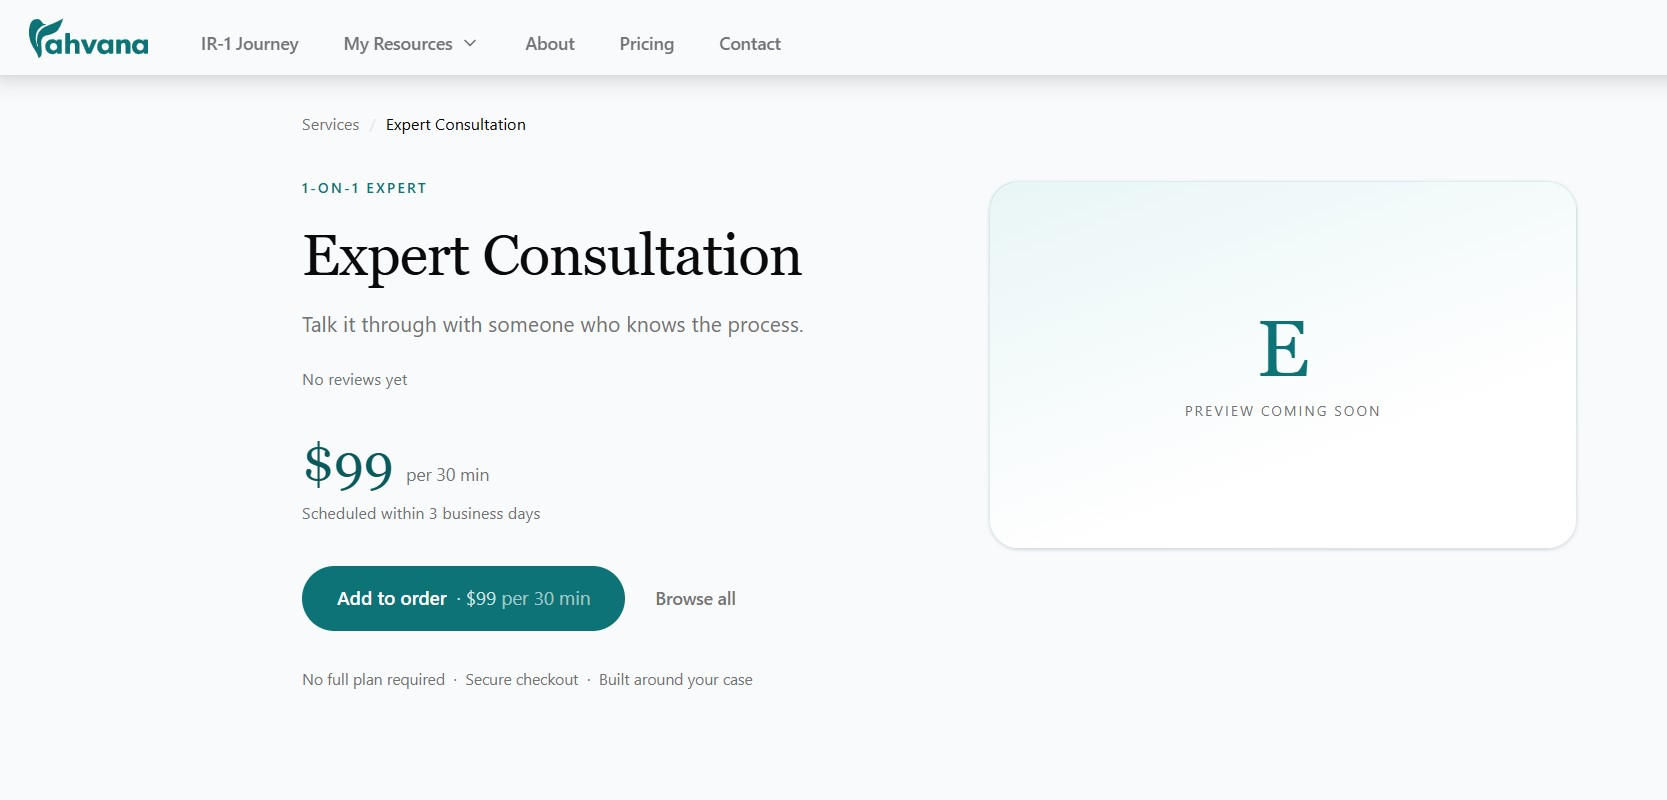
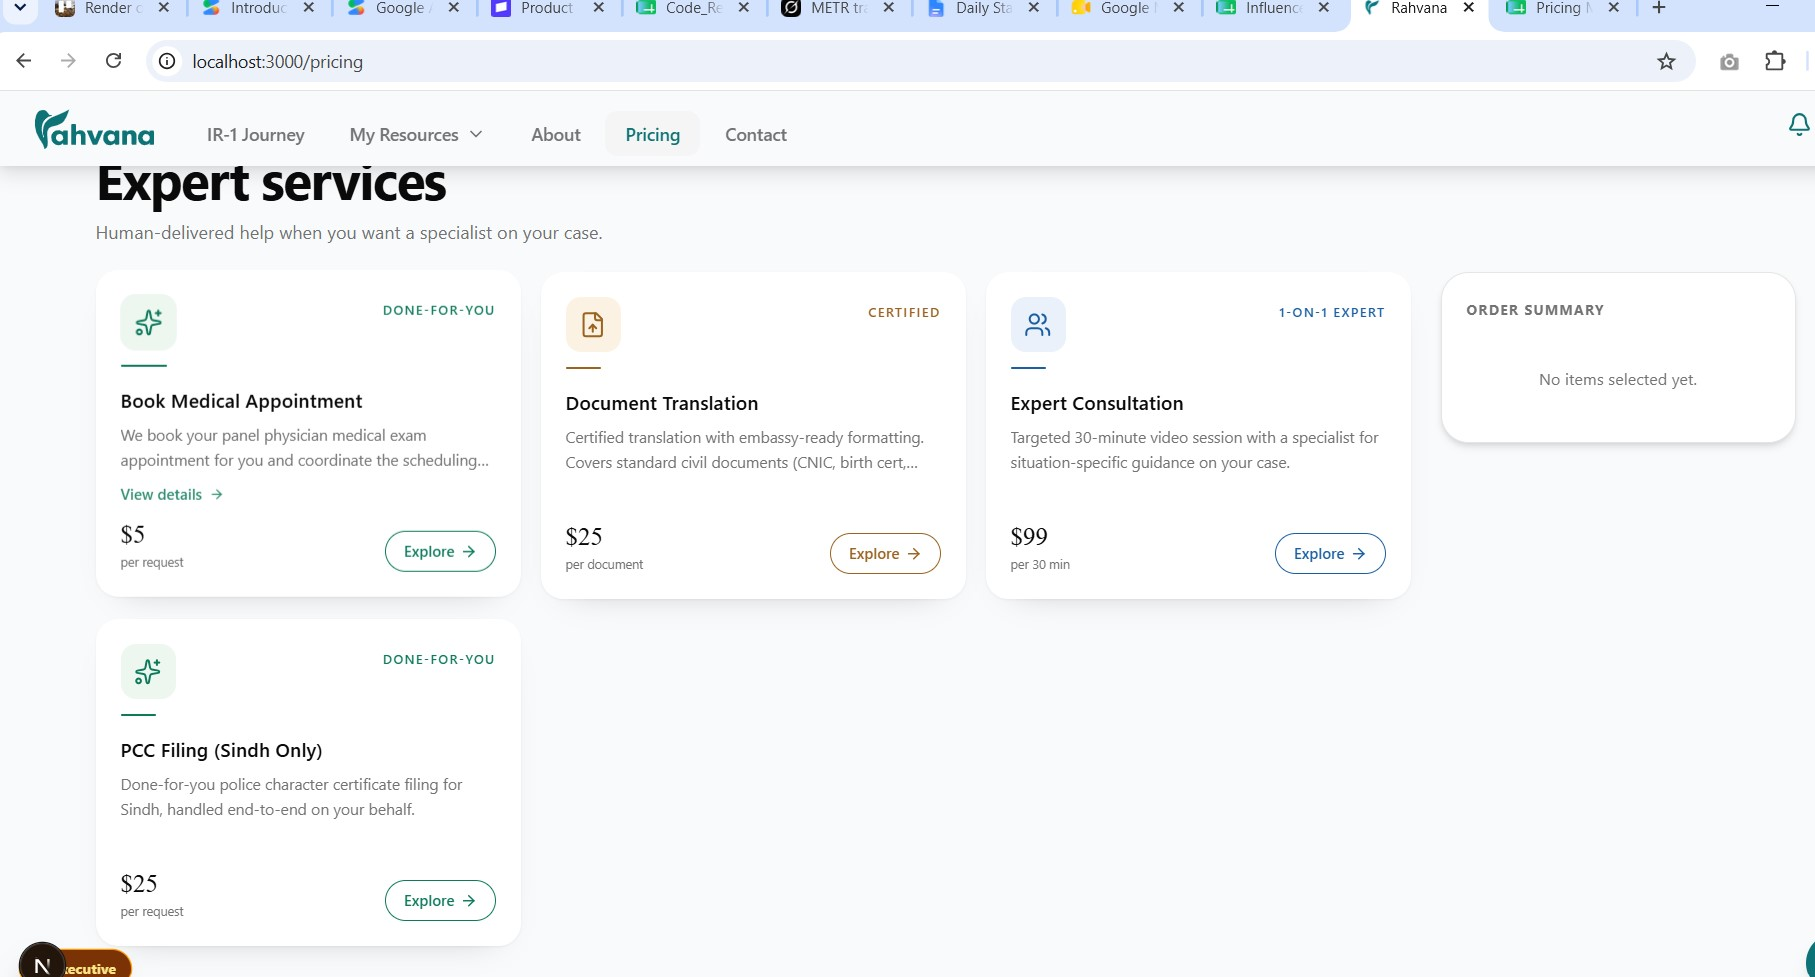
add

diff --git a/app/(main)/pricing/data/resourceDetails.ts b/app/(main)/pricing/data/resourceDetails.ts
@@ -453,6 +453,90 @@ export const RESOURCE_DETAILS: Record<string, ResourceDetail> = {
   },
 
   // ───────────────────────────────────────────────────────────────────────────
+  medical: {
+    slug: "medical",
+    badge: "Done-for-You",
+    tagline: "We book your panel physician medical exam, so you don't have to.",
+    overview: [
+      "The immigrant visa medical exam has to be done by an embassy-approved panel physician, and getting a slot can mean phone calls, waitlists and confusion over which clinic is authorised. The Book Medical Appointment service hands that off to Rahvana.",
+      "Tell us where you are and your preferred timing, and we coordinate the booking with an approved panel clinic on your behalf, then confirm the appointment back to you.",
+    ],
+    highlights: [
+      { icon: "CalendarCheck", title: "We do the booking", text: "Rahvana coordinates your appointment with an approved panel physician for you." },
+      { icon: "Stethoscope", title: "Approved panel clinics", text: "Booked only with embassy-authorised panel physicians for the immigrant visa exam." },
+      { icon: "Clock", title: "No waitlist chasing", text: "Skip the phone calls and back-and-forth, we line up the slot." },
+      { icon: "BellRing", title: "Confirmation back to you", text: "You receive the confirmed date, time and clinic details once it's set." },
+    ],
+    steps: [
+      { title: "Submit your request", text: "Share your location and preferred timing for the medical exam." },
+      { title: "We coordinate the slot", text: "Rahvana contacts an approved panel clinic and arranges your appointment." },
+      { title: "Get your confirmation", text: "Receive the confirmed appointment details: date, time and clinic." },
+      { title: "Attend your exam", text: "Show up prepared, with what to bring laid out for you in advance." },
+    ],
+    audience: [
+      "Applicants who've reached the medical exam stage",
+      "Anyone unsure which clinics are panel-approved",
+      "People who'd rather hand off the scheduling",
+    ],
+    outcomes: [
+      "One panel physician appointment booked per request",
+      "A confirmed date, time and clinic",
+      "No waitlist chasing or guesswork on approved clinics",
+    ],
+    faqs: [
+      ["Are government or clinic fees included?", "No. This covers the booking coordination only. The panel physician's exam fee is paid separately, directly to the clinic."],
+      ["Which doctor will I see?", "An embassy-approved panel physician authorised to perform the immigrant visa medical exam in your area."],
+      ["How fast can I get an appointment?", "It depends on the panel clinic's availability, but we line up the earliest workable slot and confirm it back to you."],
+    ],
+    media: [
+      img("medical", "hero.png", "Book Medical Appointment service"),
+    ],
+    related: ["consultation", "guide-passport"],
+  },
+
+  // ───────────────────────────────────────────────────────────────────────────
+  pcc: {
+    slug: "pcc",
+    badge: "Done-for-You",
+    tagline: "Hand off your Sindh police certificate filing to us.",
+    overview: [
+      "A Police Character Certificate (PCC) is required for the visa, but the Sindh filing process means documents, fees and follow-ups with the authorities. The PCC Filing service does it for you, end to end, for Sindh.",
+      "You provide the required documents and we handle the submission and follow-up so you don't have to navigate the process yourself.",
+    ],
+    highlights: [
+      { icon: "Shield", title: "Done-for-you filing", text: "We submit and follow up on your Sindh PCC application on your behalf." },
+      { icon: "MapPin", title: "Sindh province", text: "Specialised handling for the Sindh police certificate workflow." },
+      { icon: "FileCheck2", title: "Document checklist", text: "We tell you exactly what to provide before filing so nothing stalls." },
+      { icon: "ClipboardCheck", title: "Status updates", text: "Stay informed as your application moves through the process." },
+    ],
+    steps: [
+      { title: "Submit your request", text: "Start your Sindh PCC filing and tell us about your case." },
+      { title: "Provide your documents", text: "Share the required documents from the checklist we give you." },
+      { title: "We file & follow up", text: "Rahvana submits the application and follows up with the authorities." },
+      { title: "Receive your certificate", text: "Get your Police Character Certificate once issued." },
+    ],
+    audience: [
+      "Applicants who need a Sindh police certificate for the visa",
+      "Anyone who'd rather not navigate the filing themselves",
+      "People short on time to chase the authorities",
+    ],
+    outcomes: [
+      "Done-for-you PCC filing for Sindh",
+      "A clear document checklist up front",
+      "Status updates through to issuance",
+    ],
+    faqs: [
+      ["Which provinces are covered?", "This service covers Sindh only."],
+      ["Are government fees included?", "No. The official PCC fee is paid separately. This service covers the filing and coordination on your behalf."],
+      ["What do I need to provide?", "We give you a checklist up front: typically your CNIC, passport copy, a recent photo, a utility bill and a verification letter."],
+    ],
+    media: [
+      img("pcc", "hero.png", "PCC Filing (Sindh) service"),
+    ],
+    related: ["guide-police", "consultation"],
+  },
+
+  // ───────────────────────────────────────────────────────────────────────────
   // Individual document guides. All copy below is sourced verbatim from the guide
   // wizard data in /data/<doc>-guide-data.json (whats_this, sections, document_need,
   // roadmap). Nothing here is invented — it mirrors the content of each live guide.

diff --git a/app/components/layout/SiteHeader.tsx b/app/components/layout/SiteHeader.tsx
@@ -798,15 +798,7 @@ export function SiteHeader({
                   className="flex items-center gap-2 py-2 px-2 text-sm font-medium text-muted-foreground hover:text-[#0d7377] hover:bg-muted rounded-md transition-colors"
                 >
                   <Wrench className="h-4 w-4 text-[#0d7377] dark:text-teal-400" />
-                  Tools
-                </Link>
-                <Link
-                  href="/resources?tab=guides"
-                  onClick={handleLinkClick}
-                  className="flex items-center gap-2 py-2 px-2 text-sm font-medium text-muted-foreground hover:text-[#0d7377] hover:bg-muted rounded-md transition-colors"
-                >
-                  <BookOpen className="h-4 w-4 text-cyan-500 dark:text-cyan-400" />
-                  Guides
+                  My Tools
                 </Link>
                 <Link
                   href="/resources?tab=services"
@@ -814,14 +806,15 @@ export function SiteHeader({
                   className="flex items-center gap-2 py-2 px-2 text-sm font-medium text-muted-foreground hover:text-[#0d7377] hover:bg-muted rounded-md transition-colors"
                 >
                   <Briefcase className="h-4 w-4 text-amber-500 dark:text-amber-400" />
-                  Services
+                  My Services
                 </Link>
-                <div className="my-2 border-t border-border" />
                 <Link
-                  href="/resources"
-                  className="block py-2 px-2 text-sm font-semibold text-[#0d7377] hover:underline transition-colors"
+                  href="/resources?tab=guides"
+                  onClick={handleLinkClick}
+                  className="flex items-center gap-2 py-2 px-2 text-sm font-medium text-muted-foreground hover:text-[#0d7377] hover:bg-muted rounded-md transition-colors"
                 >
-                  View all My Resources &rarr;
+                  <BookOpen className="h-4 w-4 text-cyan-500 dark:text-cyan-400" />
+                  My Guides
                 </Link>
               </div>
             </motion.div>
@@ -1373,29 +1366,21 @@ export function SiteHeader({
                           onClick={() => setIsMenuOpen(false)}
                           className="block py-2 text-sm transition-all rounded-md px-2 text-slate-600 hover:text-[#0d7377] hover:bg-slate-50"
                         >
-                          Tools
-                        </Link>
-                        <Link
-                          href="/resources?tab=guides"
-                          onClick={() => setIsMenuOpen(false)}
-                          className="block py-2 text-sm transition-all rounded-md px-2 text-slate-600 hover:text-[#0d7377] hover:bg-slate-50"
-                        >
-                          Guides
+                          My Tools
                         </Link>
                         <Link
                           href="/resources?tab=services"
                           onClick={() => setIsMenuOpen(false)}
                           className="block py-2 text-sm transition-all rounded-md px-2 text-slate-600 hover:text-[#0d7377] hover:bg-slate-50"
                         >
-                          Services
+                          My Services
                         </Link>
-                        <div className="my-1 border-t border-slate-100" />
                         <Link
-                          href="/resources"
+                          href="/resources?tab=guides"
                           onClick={() => setIsMenuOpen(false)}
-                          className="text-sm font-semibold text-[#0d7377] hover:underline mt-2 flex items-center gap-1 px-2"
+                          className="block py-2 text-sm transition-all rounded-md px-2 text-slate-600 hover:text-[#0d7377] hover:bg-slate-50"
                         >
-                          View all My Resources &rarr;
+                          My Guides
                         </Link>
                       </div>
                     </motion.div>

diff --git a/app/(main)/pricing/data/pricing.ts b/app/(main)/pricing/data/pricing.ts
@@ -259,7 +259,7 @@ export const COMPARISON_GROUPS = [
       ["Smart Form Filler (I-130 / I-130A)", "—", "Included", "Included"],
       ["Sponsorship Calculator", "—", "Included", "Included"],
       ["Photo Booth", "—", "2 included", "Unlimited"],
-      ["Medical Appointment Booking", "—", "Included", "Included"],
+      ["Medical Appointment Booking", "Add On · $5", "Included", "Included"],
       ["Civil Document Guides", "—", "Included", "Included"],
     ],
   },
@@ -281,7 +281,7 @@ export const COMPARISON_GROUPS = [
   {
     label: "Services",
     rows: [
-      ["PCC Filing (Sindh Only)", "—", "—", "Included"],
+      ["PCC Filing (Sindh Only)", "Add On · $25", "Add On · $25", "Included"],
       ["Document Translation", "—", "—", "2 included"],
       // ["Dedicated Case Manager",                    "—",             "—",             "—"],
     ],
@@ -290,8 +290,8 @@ export const COMPARISON_GROUPS = [
 
 // ─── Add-on catalog (purchasable items; matches ADDON in config.ts) ───────────
 // NOT included: pdf_toolkit and snap_sign (included in Basic+).
-// NOT included: medical_booking (must upgrade to Premium, not purchasable as add-on).
-// NOT included: pcc_filing (must upgrade to Executive, not purchasable as add-on).
+// Medical Appointment Booking and PCC Filing (Sindh) are also sold as standalone
+// service add-ons here, in addition to being bundled into Premium / Executive.
 export const ADDONS = [
   {
     id: "221g",
@@ -376,6 +376,24 @@ export const ADDONS = [
     copy: "Certified translation with embassy-ready formatting. Covers standard civil documents (CNIC, birth cert, etc.).",
     note: "Delivered within 3 business days",
   },
+  {
+    id: "medical",
+    kind: "services",
+    title: "Book Medical Appointment",
+    price: 5,
+    unit: "per request",
+    copy: "We book your panel physician medical exam appointment for you and coordinate the scheduling through Rahvana.",
+    note: "One appointment booking per request",
+  },
+  {
+    id: "pcc",
+    kind: "services",
+    title: "PCC Filing (Sindh Only)",
+    price: 25,
+    unit: "per request",
+    copy: "Done-for-you police character certificate filing for Sindh, handled end-to-end on your behalf.",
+    note: "Sindh province only",
+  },
   // Temporarily disabled — service not currently offered.
   // {
   //   id: "case-manager",
@@ -453,6 +471,8 @@ export const ADDONS = [
 export const SERVICE_FLOW_HREF: Record<string, string> = {
   consultation: "/book-consultation",
   translate: "/document-translation",
+  medical: "/book-appointment",
+  pcc: "/police-verification/apply?province=Sindh",
 };
 
 // ─── FAQs ─────────────────────────────────────────────────────────────────────

diff --git a/app/(main)/resources/[slug]/iconMap.tsx b/app/(main)/resources/[slug]/iconMap.tsx
@@ -46,6 +46,7 @@ import {
   CalendarRange,
   LifeBuoy,
   FileUp,
+  Stethoscope,
   type LucideIcon,
 } from "lucide-react";
 
@@ -97,6 +98,7 @@ const ICONS: Record<string, LucideIcon> = {
   CalendarRange,
   LifeBuoy,
   FileUp,
+  Stethoscope,
 };
 
 export function getIcon(name?: string): LucideIcon {
@@ -114,6 +116,8 @@ export const SLUG_THEME: Record<string, { accent: string; tint: string; icon: st
   "doc-review": { accent: "#9B6220", tint: "#FBF2E3", icon: "FileSearch" },
   consultation: { accent: "#1A5FA3", tint: "#EAF1FB", icon: "Users" },
   translate: { accent: "#9B6220", tint: "#FBF2E3", icon: "FileUp" },
+  medical: { accent: "#903030", tint: "#FEF0F0", icon: "Stethoscope" },
+  pcc: { accent: "#3A6E4A", tint: "#EEF6F0", icon: "ShieldCheck" },
   "civil-guid": { accent: "#3A6E4A", tint: "#EEF6F0", icon: "Globe" },
   "case-manager": { accent: "#1A5FA3", tint: "#EAF1FB", icon: "UserCheck" },
   // Individual document guides (buyable à la carte on the pricing Guides tab).

diff --git a/app/(main)/pricing/page.tsx b/app/(main)/pricing/page.tsx
@@ -17,6 +17,8 @@ import {
   FileUp,
   UserCheck,
   Globe,
+  Stethoscope,
+  ShieldCheck,
   ArrowLeft,
   ArrowRight,
 } from "lucide-react";
@@ -92,6 +94,8 @@ const ADDON_CONFIG: Record<
   "doc-review": { icon: FileSearch, iconBg: "bg-amber-600 dark:bg-amber-500" },
   consultation: { icon: Users, iconBg: "bg-indigo-600 dark:bg-indigo-500" },
   translate: { icon: FileUp, iconBg: "bg-amber-600 dark:bg-amber-500" },
+  medical: { icon: Stethoscope, iconBg: "bg-rose-600 dark:bg-rose-500" },
+  pcc: { icon: ShieldCheck, iconBg: "bg-emerald-600 dark:bg-emerald-500" },
   "case-manager": {
     icon: UserCheck,
     iconBg: "bg-indigo-600 dark:bg-indigo-500",
